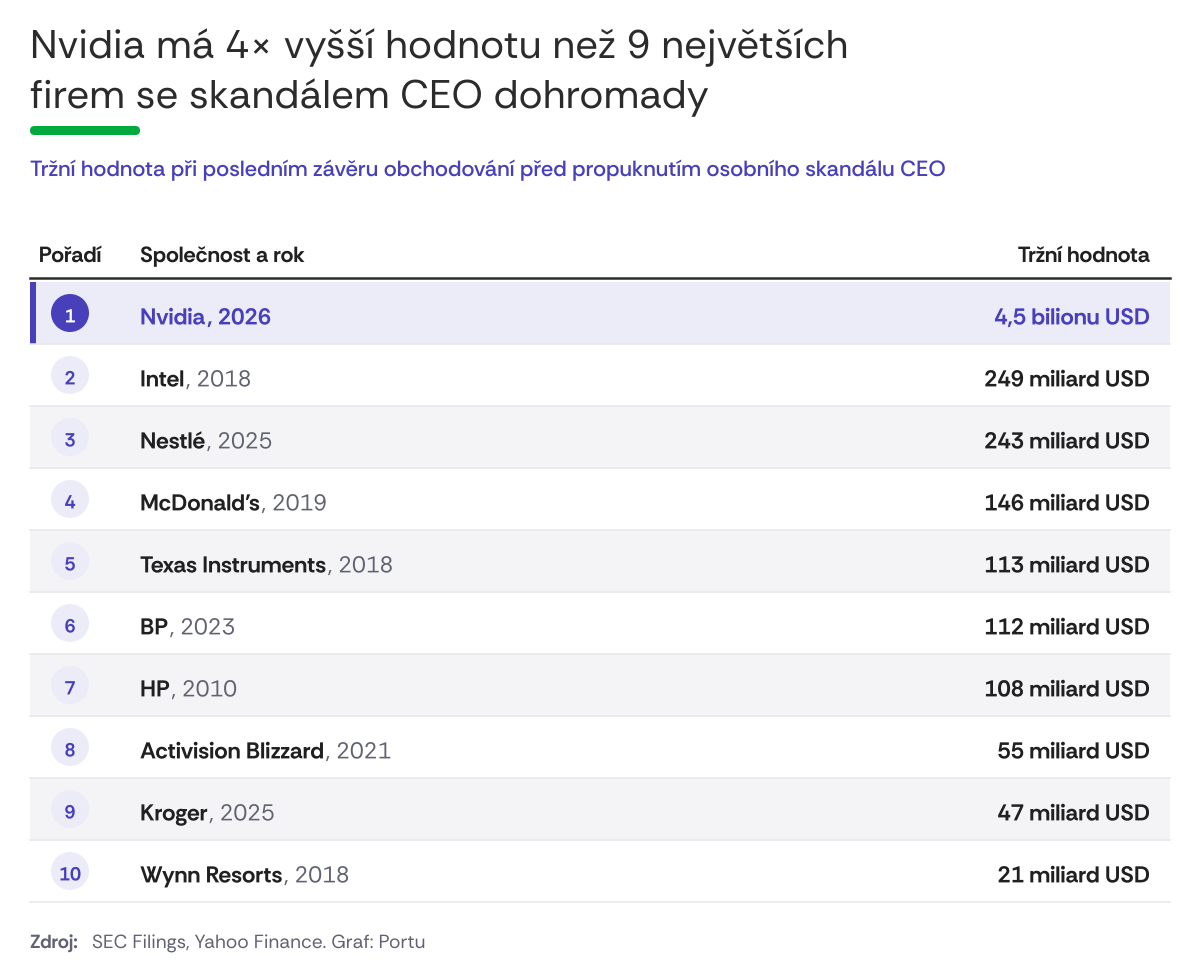
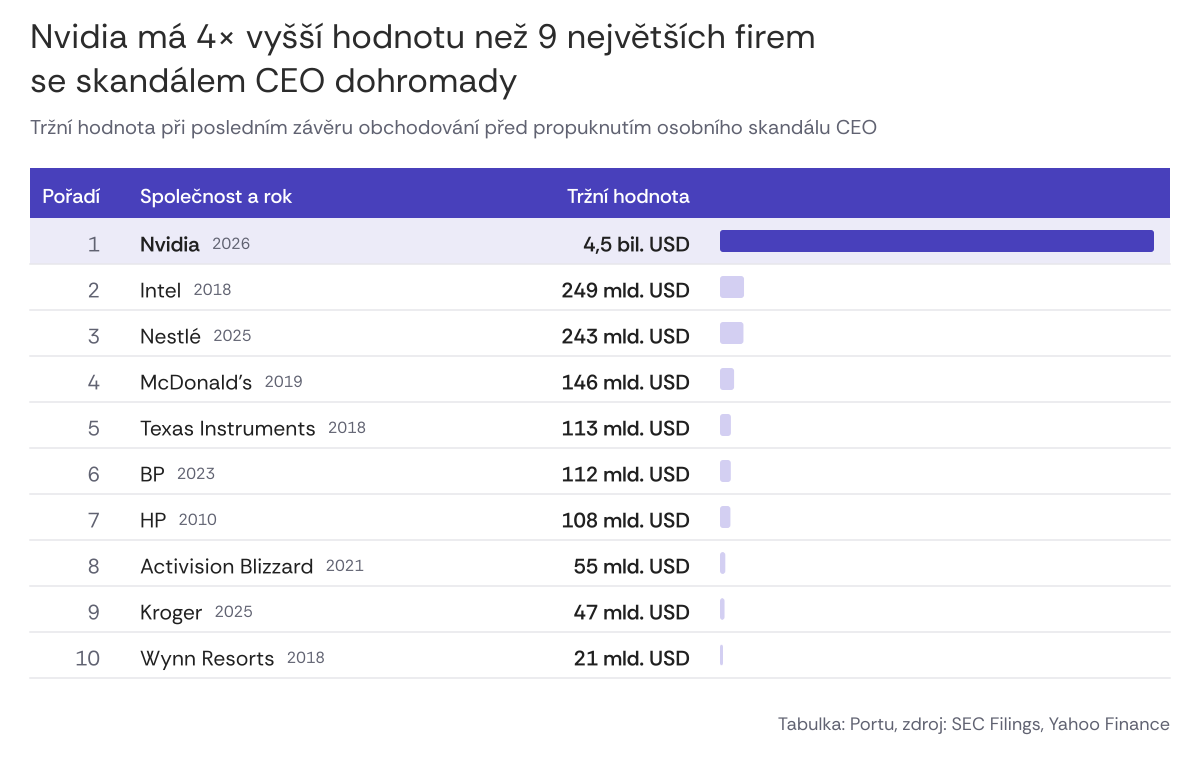
Tabulka skandálů CEO v novém designu s pruhy
Claude-Session: https://claude.ai/code/session_01A8r6cxYv4z3RaLJthvcQAS

diff --git a/vystupy/grafy/2026-11-13-skandaly-ceo.py b/vystupy/grafy/2026-11-13-skandaly-ceo.py
@@ -1,9 +1,10 @@
-"""Největší firmy se skandálem CEO – tržní hodnota před propuknutím skandálu. Tabulka v Portu vzhledu.
+"""Největší firmy se skandálem CEO – tržní hodnota před propuknutím skandálu. Tabulka s pruhy v Portu vzhledu.
 
 Data: převzato z podkladové tabulky (zdroj SEC Filings / Yahoo Finance) – tržní hodnota při posledním závěru
 obchodování před propuknutím osobního skandálu CEO. Kontrola nadpisu: firmy 2–10 dohromady 1 094 mld. USD,
 Nvidia 4 500 mld. USD = 4,1×.
-Vzhled: jako tabulka do newsletteru (Rethink Sans, fialová #4840BB, zelená #00AA3C).
+Vzhled: podle tabulky „Nejhodnotnější společnosti světa…“ – fialová hlavička s bílým textem, pruh u každé firmy
+(světle fialový, zvýrazněná firma plnou fialovou #4840BB), Rethink Sans, zdroj vpravo dole.
 Spouštěj z kořene repozitáře: python3 vystupy/grafy/2026-11-13-skandaly-ceo.py
 """
 import csv
@@ -14,7 +15,7 @@ import matplotlib
 matplotlib.use("Agg")
 import matplotlib.pyplot as plt  # noqa: E402
 from matplotlib import font_manager  # noqa: E402
-from matplotlib.patches import Circle, FancyBboxPatch, Rectangle  # noqa: E402
+from matplotlib.patches import FancyBboxPatch, Rectangle  # noqa: E402
 
 sys.path.insert(0, "nastroje")
 import portu_grafy as pg  # noqa: E402
@@ -23,22 +24,24 @@ ZAKLAD = "vystupy/grafy/2026-11-13-skandaly-ceo"
 F = "nastroje/fonty/RethinkSans"
 REGULAR = font_manager.FontProperties(fname=F + ".ttf")
 MEDIUM = font_manager.FontProperties(fname=F + "-Medium.ttf")
-BOLD = font_manager.FontProperties(fname=F + "-Bold.ttf")
+SEMIBOLD = font_manager.FontProperties(fname=F + "-SemiBold.ttf")
 
 TEXT = "#202020"
-SEDA_PRUH = "#F4F4F7"
 CARA = "#E7E7EB"
-FIALOVA_SVETLA = "#ECEBF8"  # zvýraznění řádku (odstín z brand manuálu Portu)
+FIALOVA_SVETLA = "#ECEBF8"   # podklad zvýrazněného řádku
+PRUH_SVETLY = "#D3CFF2"      # pruhy ostatních firem (světlý odstín fialové Portu)
 W, DPI = 1200, 200
 PT = DPI / 72
 
 radky = list(csv.DictReader(open(ZAKLAD + ".csv", encoding="utf-8")))
-ostatni = sum(float(r["trzni_hodnota_mld_usd"]) for r in radky[1:])
-nasobek = float(radky[0]["trzni_hodnota_mld_usd"]) / ostatni
+hodnoty = [float(r["trzni_hodnota_mld_usd"]) for r in radky]
+nasobek = hodnoty[0] / sum(hodnoty[1:])
 
-RADEK = 62
-Y_TAB = 236
-H = Y_TAB + 46 + len(radky) * RADEK + 70
+RADEK = 46
+Y_HL = 168                   # horní hrana fialové hlavičky
+VYSKA_HL = 50
+Y_PRVNI = Y_HL + VYSKA_HL    # horní hrana prvního řádku
+H = Y_PRVNI + len(radky) * RADEK + 84
 fig = plt.figure(figsize=(W / DPI, H / DPI), dpi=DPI, facecolor="white")
 ax = fig.add_axes([0, 0, 1, 1])
 ax.set_xlim(0, W)
@@ -51,43 +54,39 @@ def text(x, y, s, px, barva, font, **kw):
 
 
 L, P = 30, 1170
-X_PORADI, X_FIRMA, X_HODNOTA = L + 40, L + 110, P - 20
+X_PORADI, X_FIRMA, X_HODNOTA = L + 70, L + 110, 690
+X_PRUH, KONEC_PRUHU = 720, P - 16
 
-text(L, 58, f"Nvidia má {nasobek:.0f}× vyšší hodnotu než 9 největších", 40, pg.TEXT_TMAVY, REGULAR, va="baseline")
-text(L, 108, "firem se skandálem CEO dohromady", 40, pg.TEXT_TMAVY, REGULAR, va="baseline")
-ax.add_patch(FancyBboxPatch((L, 126), 110, 9, boxstyle="round,pad=0,rounding_size=4.5", facecolor=pg.ZELENA,
-                            edgecolor="none"))
-text(L, 176, "Tržní hodnota při posledním závěru obchodování před propuknutím osobního skandálu CEO", 22,
-     pg.FIALOVA, MEDIUM, va="baseline")
+text(L, 48, f"Nvidia má {nasobek:.0f}× vyšší hodnotu než 9 největších firem", 34, pg.TEXT_TMAVY, REGULAR,
+     va="baseline")
+text(L, 92, "se skandálem CEO dohromady", 34, pg.TEXT_TMAVY, REGULAR, va="baseline")
+text(L, 134, "Tržní hodnota při posledním závěru obchodování před propuknutím osobního skandálu CEO", 20,
+     pg.TEXT_SEDY, REGULAR, va="baseline")
 
-# hlavička
-for x, nazev, zarovnani in ((X_PORADI, "Pořadí", "center"), (X_FIRMA, "Společnost a rok", "left"),
+# fialová hlavička
+ax.add_patch(Rectangle((L, Y_HL), P - L, VYSKA_HL, facecolor=pg.FIALOVA, edgecolor="none"))
+stred_hl = Y_HL + VYSKA_HL / 2
+for x, nazev, zarovnani in ((X_PORADI, "Pořadí", "right"), (X_FIRMA, "Společnost a rok", "left"),
                             (X_HODNOTA, "Tržní hodnota", "right")):
-    text(x, Y_TAB + 26, nazev, 22, TEXT, BOLD, ha=zarovnani, va="baseline")
-ax.plot([L, P], [Y_TAB + 42, Y_TAB + 42], color=pg.TEXT_TMAVY, linewidth=2.5 / PT)
+    text(x, stred_hl, nazev, 20, "white", MEDIUM, ha=zarovnani, va="center_baseline")
 
-y = Y_TAB + 46
-for i, r in enumerate(radky):
+y = Y_PRVNI
+for i, (r, v) in enumerate(zip(radky, hodnoty)):
     prvni = i == 0
     if prvni:
         ax.add_patch(Rectangle((L, y), P - L, RADEK, facecolor=FIALOVA_SVETLA, edgecolor="none", zorder=0))
-        ax.add_patch(Rectangle((L, y), 6, RADEK, facecolor=pg.FIALOVA, edgecolor="none", zorder=1))
-    elif i % 2 == 0:
-        ax.add_patch(Rectangle((L, y), P - L, RADEK, facecolor=SEDA_PRUH, edgecolor="none", zorder=0))
     ax.plot([L, P], [y + RADEK, y + RADEK], color=CARA, linewidth=1.5 / PT, zorder=1)
     stred = y + RADEK / 2
-    ax.add_patch(Circle((X_PORADI, stred), 19, facecolor=pg.FIALOVA if prvni else FIALOVA_SVETLA, edgecolor="none",
-                        zorder=2))
-    text(X_PORADI, stred, r["poradi"], 19, "white" if prvni else pg.FIALOVA, BOLD, ha="center",
-         va="center_baseline", zorder=3)
-    t = text(X_FIRMA, stred, r["spolecnost"], 23, pg.FIALOVA if prvni else TEXT, BOLD, va="center_baseline", zorder=2)
+    text(X_PORADI, stred, r["poradi"], 21, pg.TEXT_SEDY, REGULAR, ha="right", va="center_baseline")
+    t = text(X_FIRMA, stred, r["spolecnost"], 21, TEXT, SEMIBOLD if prvni else REGULAR, va="center_baseline")
     sirka = t.get_window_extent(renderer=fig.canvas.get_renderer()).width
-    text(X_FIRMA + sirka + 2, stred, f", {r['rok']}", 23, pg.FIALOVA if prvni else pg.TEXT_SEDY,
-         BOLD if prvni else REGULAR, va="center_baseline", zorder=2)
-    text(X_HODNOTA, stred, r["trzni_hodnota_text"], 23, pg.FIALOVA if prvni else TEXT, BOLD,
-         ha="right", va="center_baseline", zorder=2)
+    text(X_FIRMA + sirka + 12, stred, r["rok"], 16, pg.TEXT_SEDY, REGULAR, va="center_baseline")
+    text(X_HODNOTA, stred, r["trzni_hodnota_text"], 21, TEXT, SEMIBOLD, ha="right", va="center_baseline")
+    delka = max((KONEC_PRUHU - X_PRUH) * v / max(hodnoty), 3)
+    ax.add_patch(FancyBboxPatch((X_PRUH, stred - 11), delka, 22, boxstyle="round,pad=0,rounding_size=3",
+                                facecolor=pg.FIALOVA if prvni else PRUH_SVETLY, edgecolor="none", zorder=2))
     y += RADEK
 
-text(L, y + 46, "Zdroj:", 19, pg.TEXT_SEDY, BOLD, va="baseline")
-text(L + 62, y + 46, "SEC Filings, Yahoo Finance. Graf: Portu", 19, pg.TEXT_SEDY, REGULAR, va="baseline")
+text(P, y + 52, "Tabulka: Portu, zdroj: SEC Filings, Yahoo Finance", 18, pg.TEXT_SEDY, REGULAR, ha="right",
+     va="baseline")
 fig.savefig(ZAKLAD + ".png", dpi=DPI, facecolor="white")
